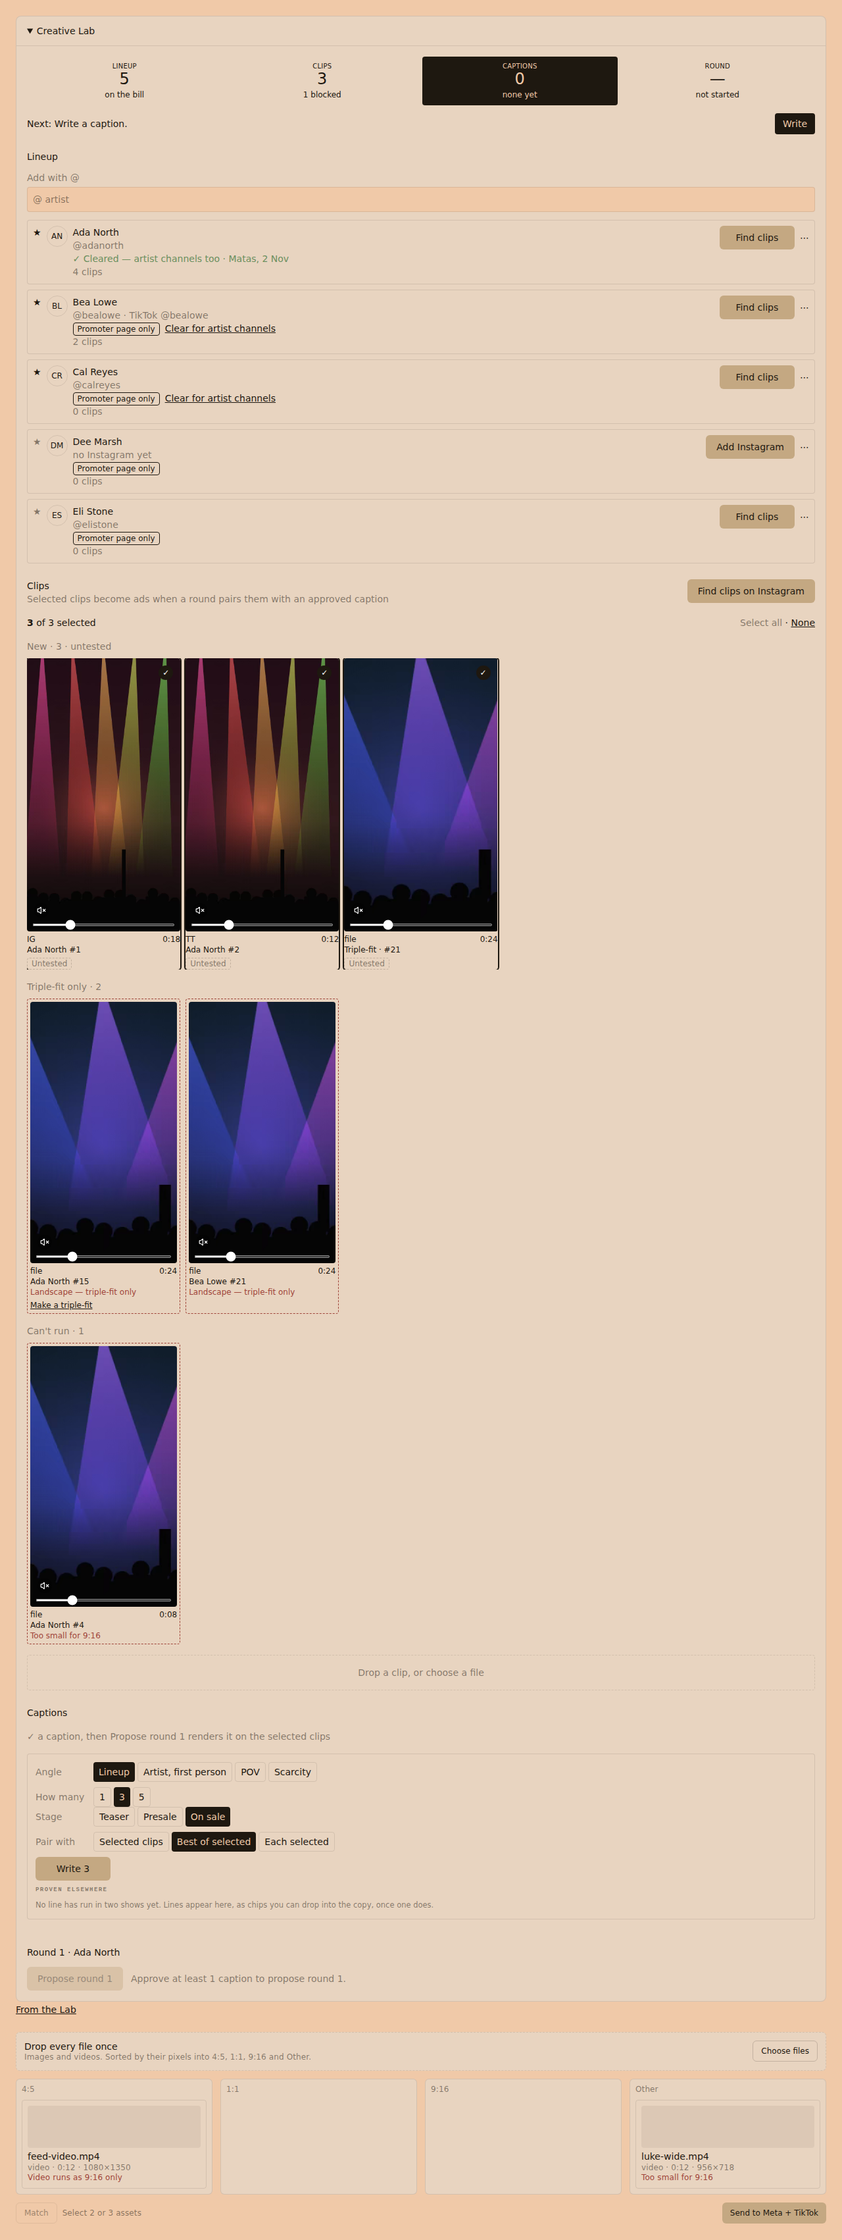
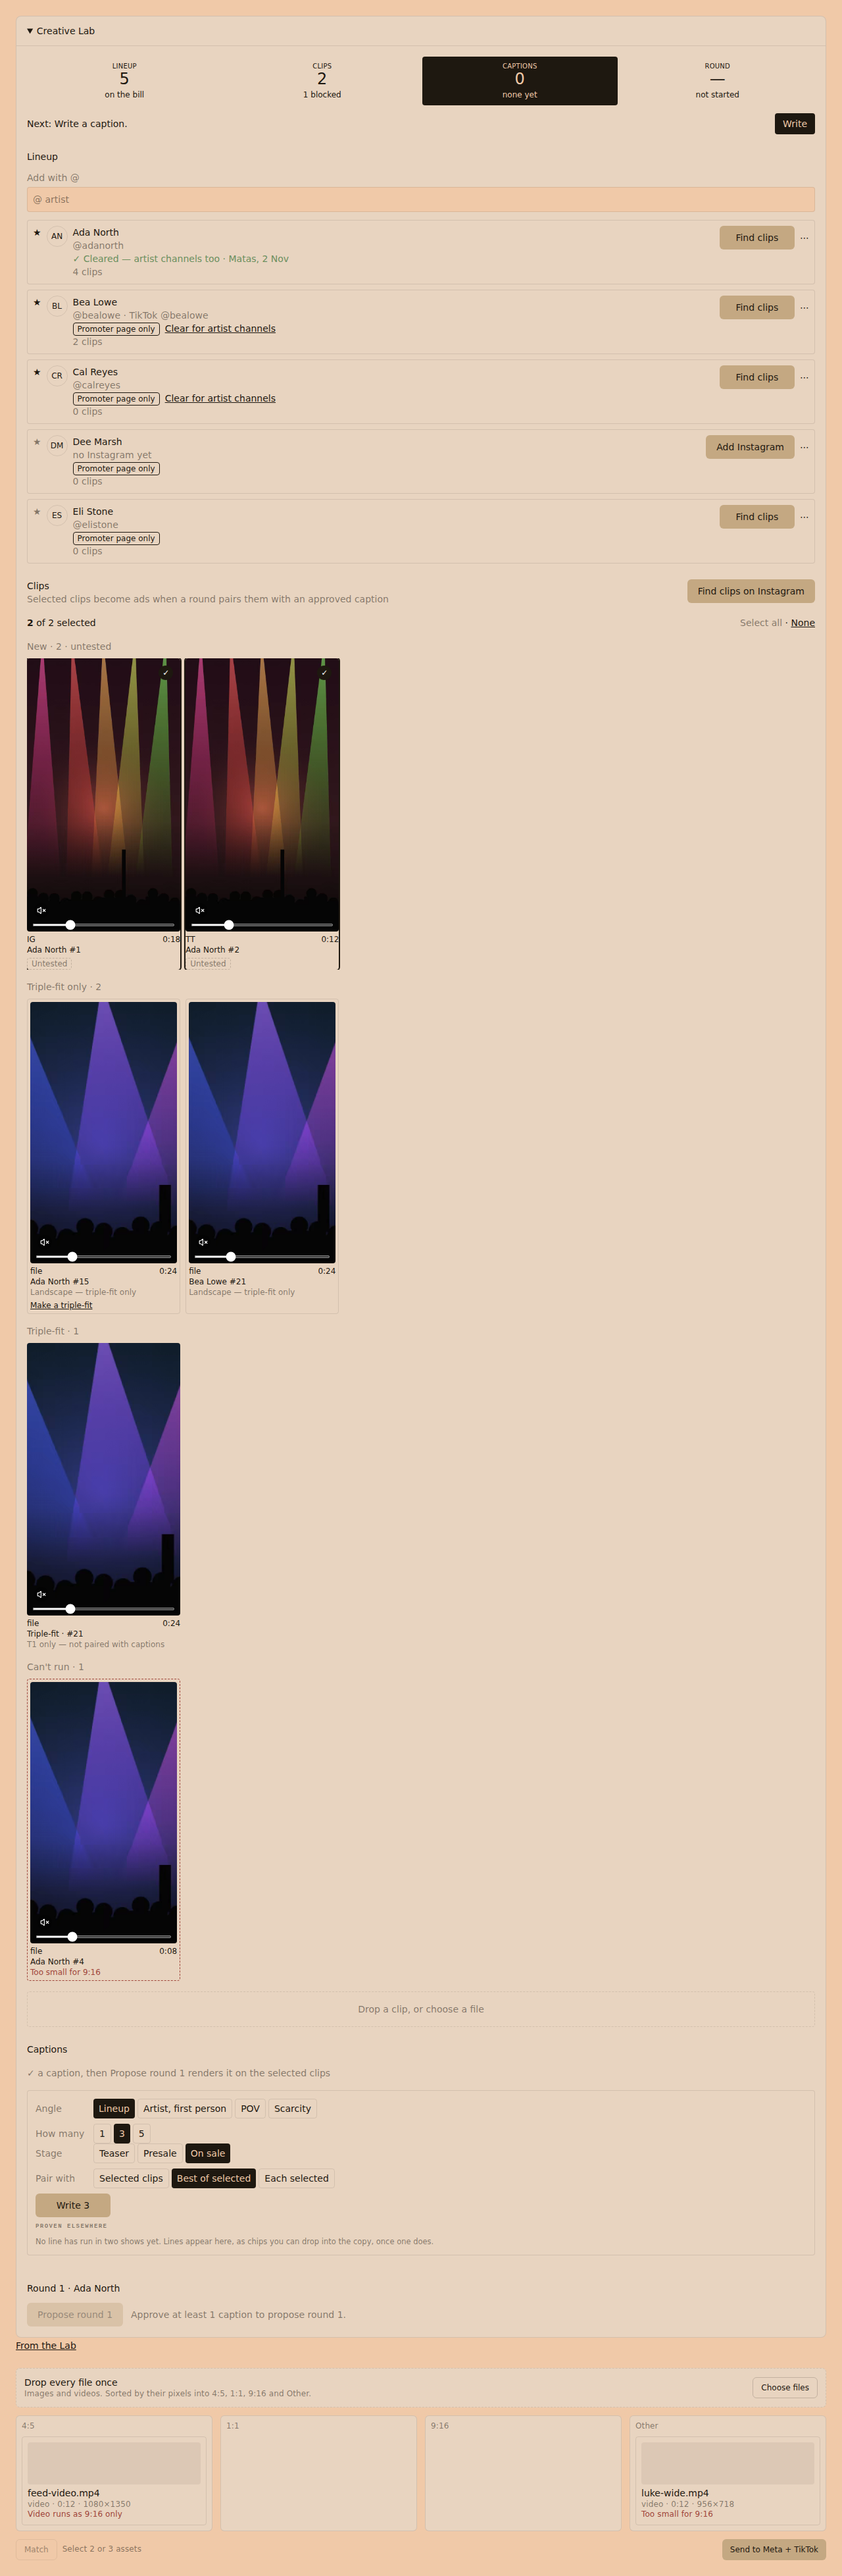
Rebaseline CL11 and add CL12 from the Ubuntu shots.
A landscape clip's crop picker was opening because it was no longer marked too small, and the made tile was still missing from the committed frames.

diff --git a/components/dashboard/events/creative-lab/clips.tsx b/components/dashboard/events/creative-lab/clips.tsx
@@ -558,7 +558,7 @@ function ClipGroup({
           <ClipTile key={clip.id} clip={clip} clips={all} busy={busy} onSave={onSave} selected={selected?.has(clip.id) === true} audible={clip.id === audibleClipId} onToggle={onToggle ? () => onToggle(clip.id) : undefined} />
         ))}
       </div>
-      {clips.filter((clip) => clip.cropOpen && !clip.tripleFitSourceId && !tooSmall916Sentence(clip) && clip.sourceWidth != null && clip.sourceHeight != null && !isNative9x16(clip.sourceWidth, clip.sourceHeight)).map((clip) => (
+      {clips.filter((clip) => clip.cropOpen && !clip.tripleFitSourceId && !tripleFitOnlySentence(clip) && !tooSmall916Sentence(clip) && clip.sourceWidth != null && clip.sourceHeight != null && !isNative9x16(clip.sourceWidth, clip.sourceHeight)).map((clip) => (
         <CropPicker
           key={clip.id}
           src={clip.previewUrl}

diff --git a/docs/session-logs/pr-1186-cursor-triple-fit-lab.md b/docs/session-logs/pr-1186-cursor-triple-fit-lab.md
@@ -31,4 +31,4 @@ Migration sha256: `4764328685590c3aab34267e1b5bcbccb6b3cf27a3cb263cb5e96388907c3
 
 `t1-video.ts` and `t1-video-frame.ts` are unchanged by this branch. `footageWindow` is read-only. Luke's existing rows change line by classification; nothing is written to them. The design-pass check is red because frames changed and the label was not added.
 
-Main (`9d38cec`, #1188) is merged in. #1187's rules stay in `lib/creative-lab/triple-fit.ts` and are imported, not copied. The Lab's row write stays in `make-triple-fit.ts`. A made clip renders through `renderTripleFitClip` only from `renderMadeTripleFit`: T1 arrangement B, composition `TripleFitOnClip`, the source clip's render copy. Caption rounds refuse it with "T1 only — not paired with captions". The claim is the event's approved ladder claim, or none. The clip carries the event kit's lockup (the logo layer's ink, placed at y 353) and the kit's date piece, whose label is "SUNDAY 27TH DECEMBER". Made clips are their own group, "Triple-fit", so they are not counted under New. A landscape source is not also "Too small for 9:16", so its tile is muted ink and a plain hairline. Migration 229's sha256 is unchanged. CL11-1280 is rebaselined from this round's Ubuntu shot even when the diff is inside tolerance. CL12 is the frame where the made tile is fully visible at 393.
+Main (`9d38cec`, #1188) is merged in. #1187's rules stay in `lib/creative-lab/triple-fit.ts` and are imported, not copied. The Lab's row write stays in `make-triple-fit.ts`. A made clip renders through `renderTripleFitClip` only from `renderMadeTripleFit`: T1 arrangement B, composition `TripleFitOnClip`, the source clip's render copy. Caption rounds refuse it with "T1 only — not paired with captions". The claim is the event's approved ladder claim, or none. The clip carries the event kit's lockup (the logo layer's ink, placed at y 353) and the kit's date piece, whose label is "SUNDAY 27TH DECEMBER". Made clips are their own group, "Triple-fit", so they are not counted under New. A landscape source is not also "Too small for 9:16", so its tile is muted ink and a plain hairline, and its crop picker stays closed. Migration 229's sha256 is unchanged. CL11-1280, CL11-393, CL12-1280 and CL12-393 are the Ubuntu shots from artifact 13969067599.
